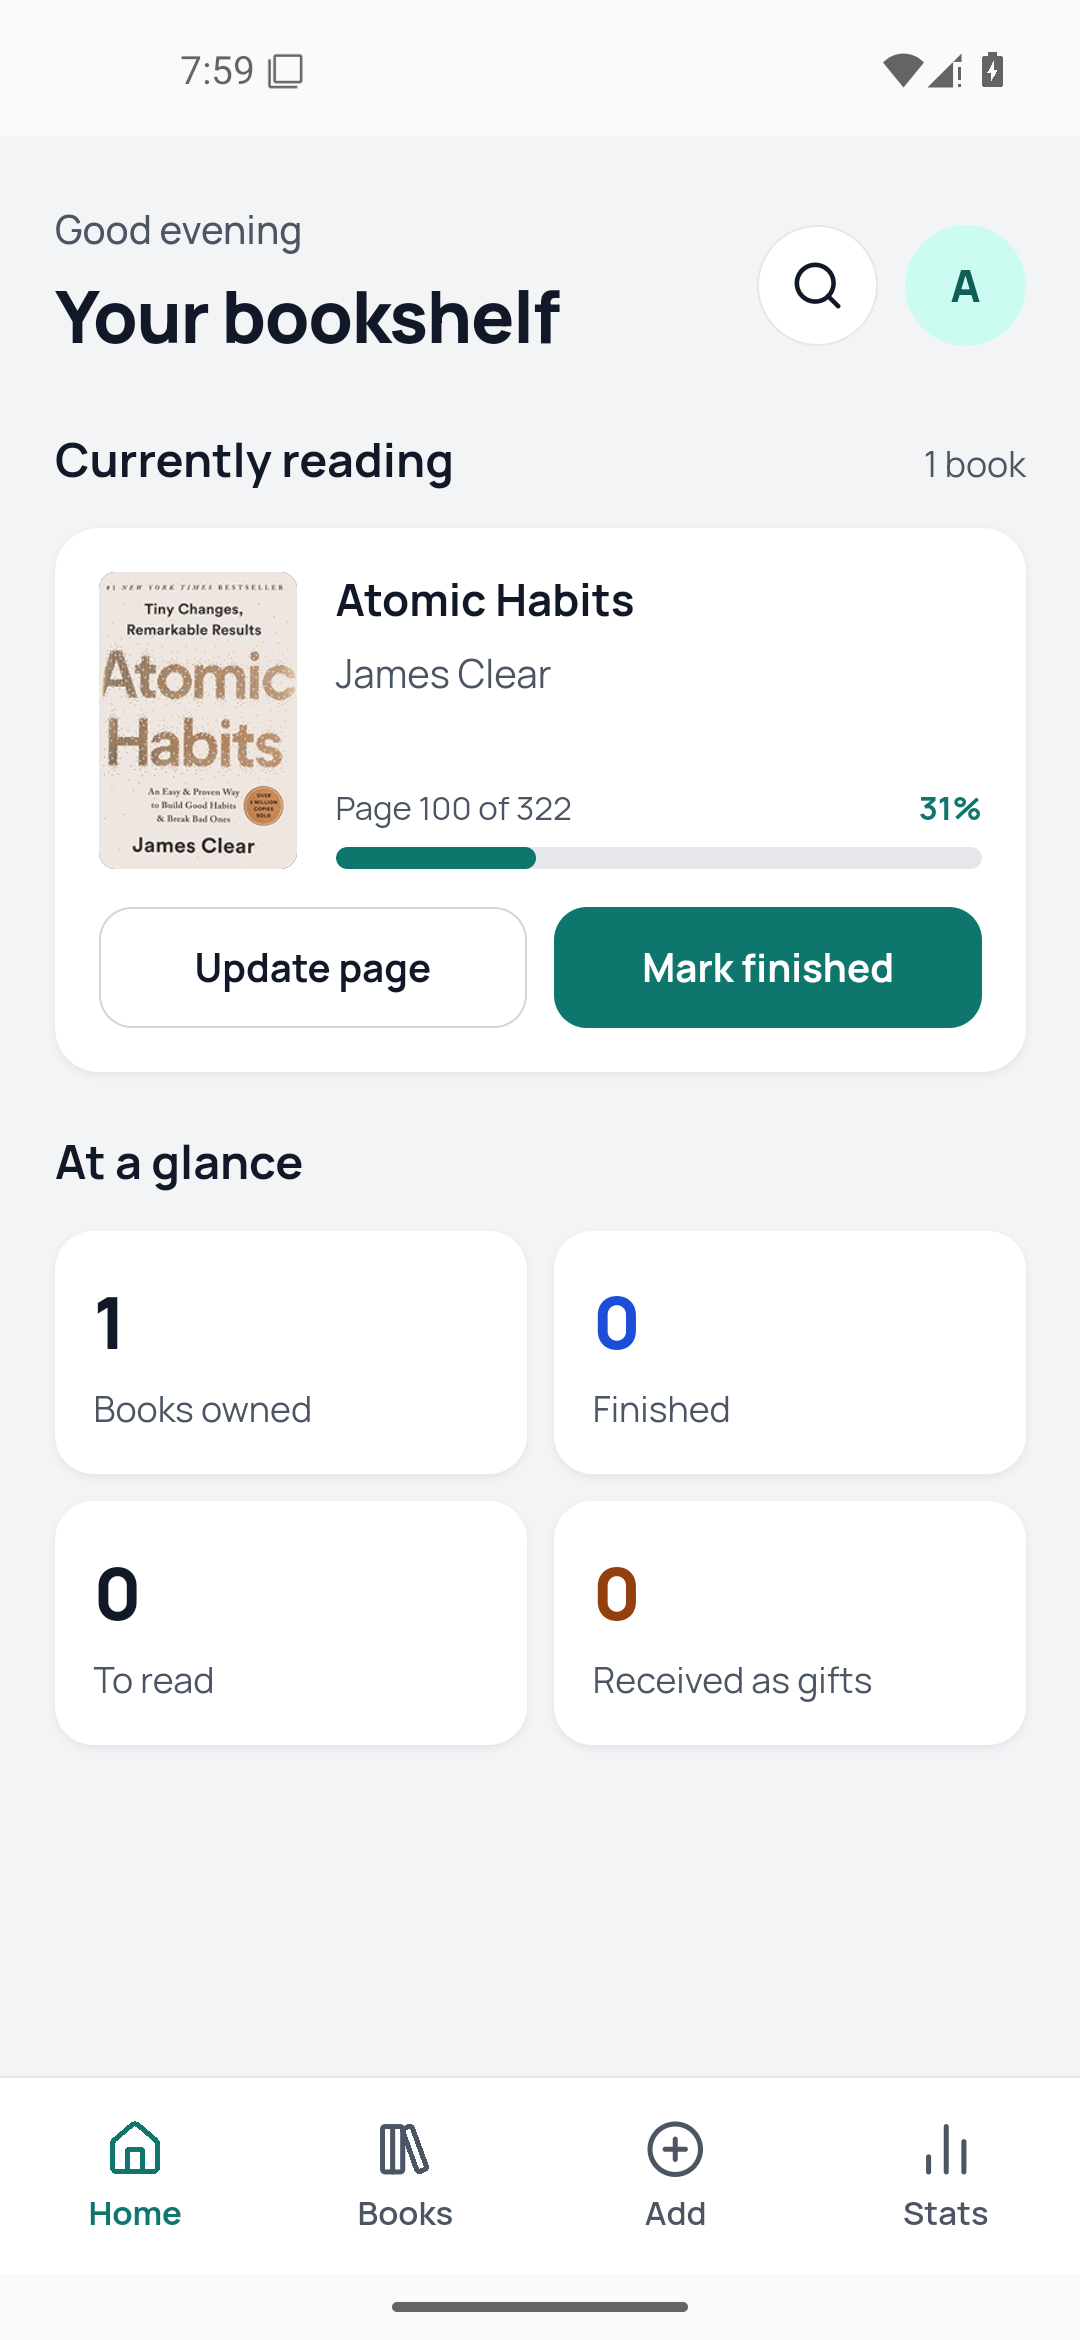
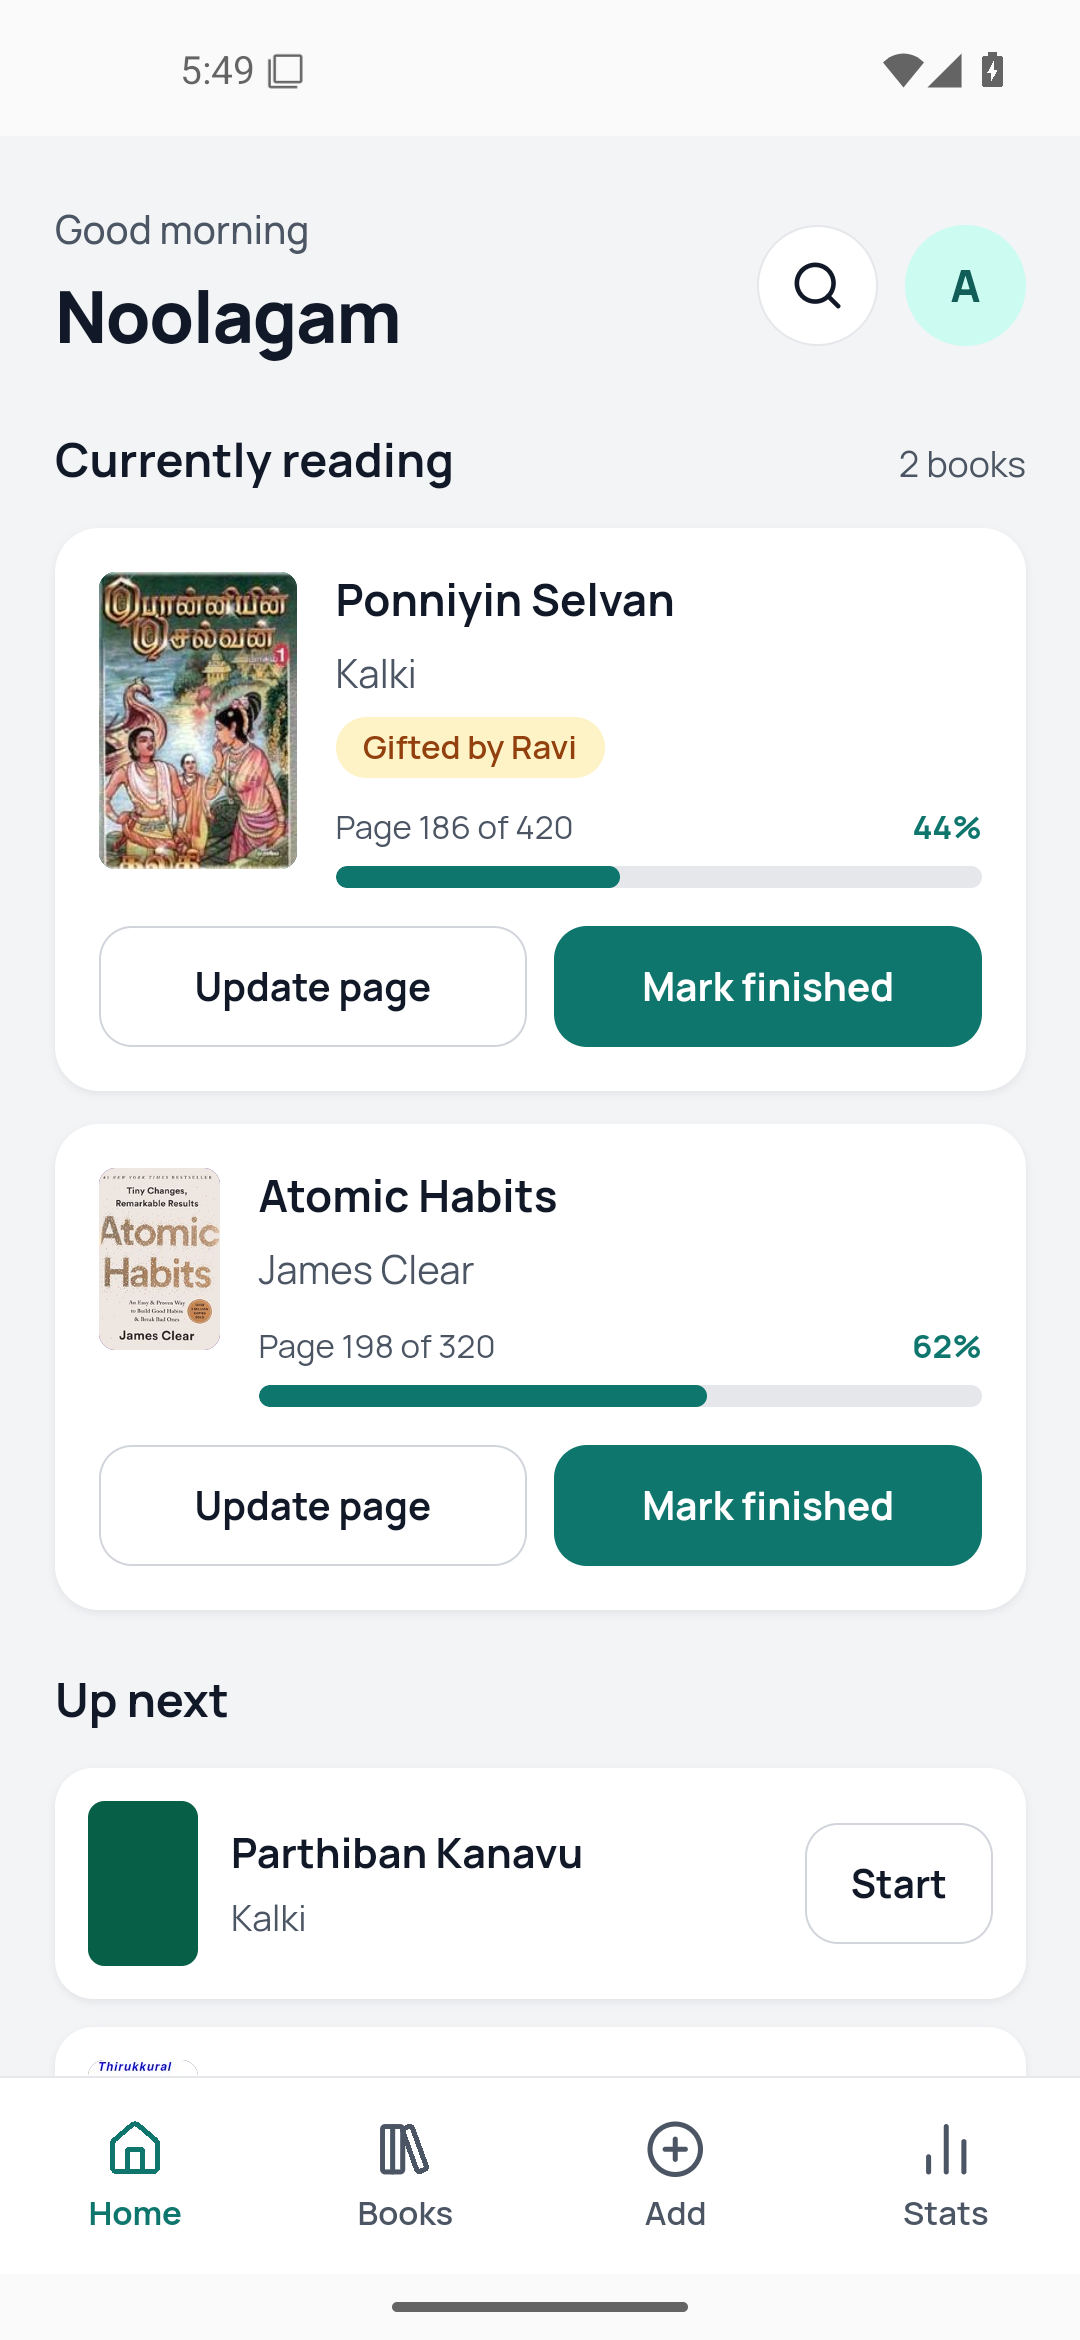
docs: update Android notes and screenshots for version 0.1.0

diff --git a/CLAUDE.md b/CLAUDE.md
@@ -30,8 +30,8 @@ The owner changed the order from section 16 of the spec: frontend screens come f
 9. Email verification removed at the owner's request (done)
 10. README with diagrams, screenshots and tested commands (done). Update its Status, Roadmap and test counts as things change.
 11. Android APK with Capacitor, tested in an emulator (done; not yet on a physical phone).
-12. Cover photo upload on Add book and Edit, on the web and Android (done on the web; the Android camera and preview fixes are not yet tested).
-13. Home titled "Noolagam", an About section, and days taken per book (done on the web; the APK is rebuilt only when the owner says "ready").
+12. Cover photo upload on Add book and Edit, on the web and Android (done; tested in an Android 15 emulator, not yet on a physical phone).
+13. Home titled "Noolagam", an About section, and days taken per book (done; tested on the web and in the emulator).
 
 Every screen and feature in the spec now exists. Not built yet: JSON logging and tracing, Beat cleanup of old tokens, the rest of `cli.py`, PWA, the production frontend image, GitHub Actions, hosting. The next step has not been agreed yet. The spec's phases remain the checklist of what has to exist in the end.
 
@@ -84,6 +84,7 @@ Background and search:
 
 Cover photos:
 - `POST /books/{id}/cover` takes one multipart file, `photo`. `cover_files.process` rebuilds it as a JPEG of at most 1200 px, turned upright, which strips EXIF including GPS. Only JPEG, PNG and WebP are accepted, judged from the content. HEIC is not supported, to avoid another native dependency.
+- Android: "Take photo" needs the `IMAGE_CAPTURE` entry under `<queries>` in the manifest. Without it, Android 11+ hides the camera app from Capacitor, which silently opens the picker. `CoverPhotoPicker` reads the chosen file into memory, because the first photo picked on a newly set-up device failed to display when read directly (seen twice, fine after this change and on later picks; the cause inside Android wasn't identified).
 - Files live in `MEDIA_DIR` (the `uploads` Compose volume) under random names. `cover_url` holds a relative `/api/v1/media/covers/<name>.jpg`, which `Cover` prefixes with `VITE_API_URL` because the Android app's pages aren't at the API's address.
 - `GET /media/covers/{name}` needs no login, since `<img>` can't send a bearer token. The unguessable name is what keeps a photo private. A new photo always gets a new name, so the response can be cached for a year.
 - `RequestSizeLimitMiddleware` refuses large and chunked requests before reading them, as FastAPI saves a whole form to disk before it runs the route's login and size checks. It runs inside CORS so the app can read the error.
@@ -94,7 +95,7 @@ Cover photos:
 
 UI:
 - Home is titled "Noolagam", not the spec's and mockup's "Your bookshelf", at the owner's request.
-- Profile has an About section with the description, version, developer, contact email and copyright notice, all kept in `frontend/src/appInfo.ts`. The owner chose to publish that address, in the app and in this public repository. The version comes from `frontend/package.json` through Vite's `define`, so it has one source. `versionName` in `frontend/android/app/build.gradle` is separate and still says 1.0.
+- Profile has an About section with the description, version, developer, contact email and copyright notice, all kept in `frontend/src/appInfo.ts`. The owner chose to publish that address, in the app and in this public repository. The version comes from `frontend/package.json` through Vite's `define`, so it has one source. `versionName` in `frontend/android/app/build.gradle` is separate, so change both for a new version.
 - Days taken are worked out on the client, because "today" must be the user's local date. They count like the Stats average: finish date minus start date. A finished book with the same start and finish date says "Started and finished the same day", never "Read in a day", because a book added as already finished has only one date. Book rows leave out a length of 0.
 - Home gets an "Up next" section with up to 3 to-read books and a Start button, to meet NFR-26.
 - Profile is reached from an avatar in the mobile header and the bottom of the laptop sidebar.

diff --git a/frontend/android/README.md b/frontend/android/README.md
@@ -72,6 +72,8 @@ To update the app, build again and install the new APK over the old one. You sta
 | **Refresh token** | httpOnly cookie | The app's private storage, through `@capacitor/preferences` |
 | **Identifies itself with** | Nothing extra | `X-Client-Type: native` header |
 | **Back** | The browser's button | Android's Back: closes a dialog, then goes back a screen, then exits |
+| **Cover photos** | Choose a file. On a phone's browser, Take photo also opens the camera | Take photo opens the camera, and Choose photo opens Android's photo picker |
+| **Contact address in About** | Opens your email program | Opens your mail app |
 | **Password reset links** | Open in the browser | Also open in the browser. Set the new password there, then log in to the app |
 
 ## Security notes
@@ -79,6 +81,7 @@ To update the app, build again and install the new APK over the old one. You sta
 - **Login storage:** the refresh token is in storage only this app can read on a normal phone, and that storage is excluded from Android backups. It isn't separately encrypted, so a rooted phone could read it.
 - **Token exposure:** the API only returns a refresh token in a response body after a password is checked, or in exchange for a refresh token. A browser's cookie alone never reveals one.
 - **Plain `http://`:** the app only allows it when built with an `http://` address, for testing on a home network. An `https://` build blocks it. Use `https://` for anything beyond testing, as `http://` sends passwords unencrypted.
+- **Photos:** the app needs no camera or storage permission, because Android's own camera and photo picker hand over only the photo you choose. A photo taken in the app also stays in the app's own folder on the phone until the app is uninstalled. The copy on the server has its location data removed.
 - **Allowed origins:** the backend's `CORS_ORIGINS` must include `http://localhost` and `https://localhost`, which is where the app's pages run from. The default settings already do.
 
 ## Troubleshooting
@@ -91,6 +94,9 @@ To update the app, build again and install the new APK over the old one. You sta
 
 **"App not installed", or a signature conflict**
 - Android refuses to update an app signed with a different key. Builds on one computer share a key, kept in the `noolagam-gradle-cache` Docker volume. If the APK came from another computer, or that volume was deleted, uninstall the old app first. Doing that logs you out, but your books are safe on the server.
+
+**Take photo opens the gallery instead of the camera**
+- The phone may have no camera app available, in which case Android's file picker is used instead. Check that the phone's camera app is enabled.
 
 **The screens look unstyled**
 - Update **Android System WebView** in the Play Store. The app uses it to draw its screens, and it relies on modern CSS.
@@ -106,7 +112,7 @@ To update the app, build again and install the new APK over the old one. You sta
 | [`../build-apk.sh`](../build-apk.sh) | Builds the web app, copies it into this project, and builds the APK |
 | [`../src/api/tokenStorage.ts`](../src/api/tokenStorage.ts) | Where the login is kept on the web and on Android |
 | [`../src/androidBackButton.ts`](../src/androidBackButton.ts) | Android's Back button |
-| [`app/src/main/AndroidManifest.xml`](app/src/main/AndroidManifest.xml) | App permissions, backup and `http://` settings |
+| [`app/src/main/AndroidManifest.xml`](app/src/main/AndroidManifest.xml) | App permissions, access to the camera app, backup and `http://` settings |
 | [`app/src/main/res/`](app/src/main/res/) | App icon and splash screen |
 
 Most changes belong in the React code in [`frontend/src`](../src), not in this folder. The app's copy of the web files, in `app/src/main/assets/public`, is generated by each build, so don't edit it.
